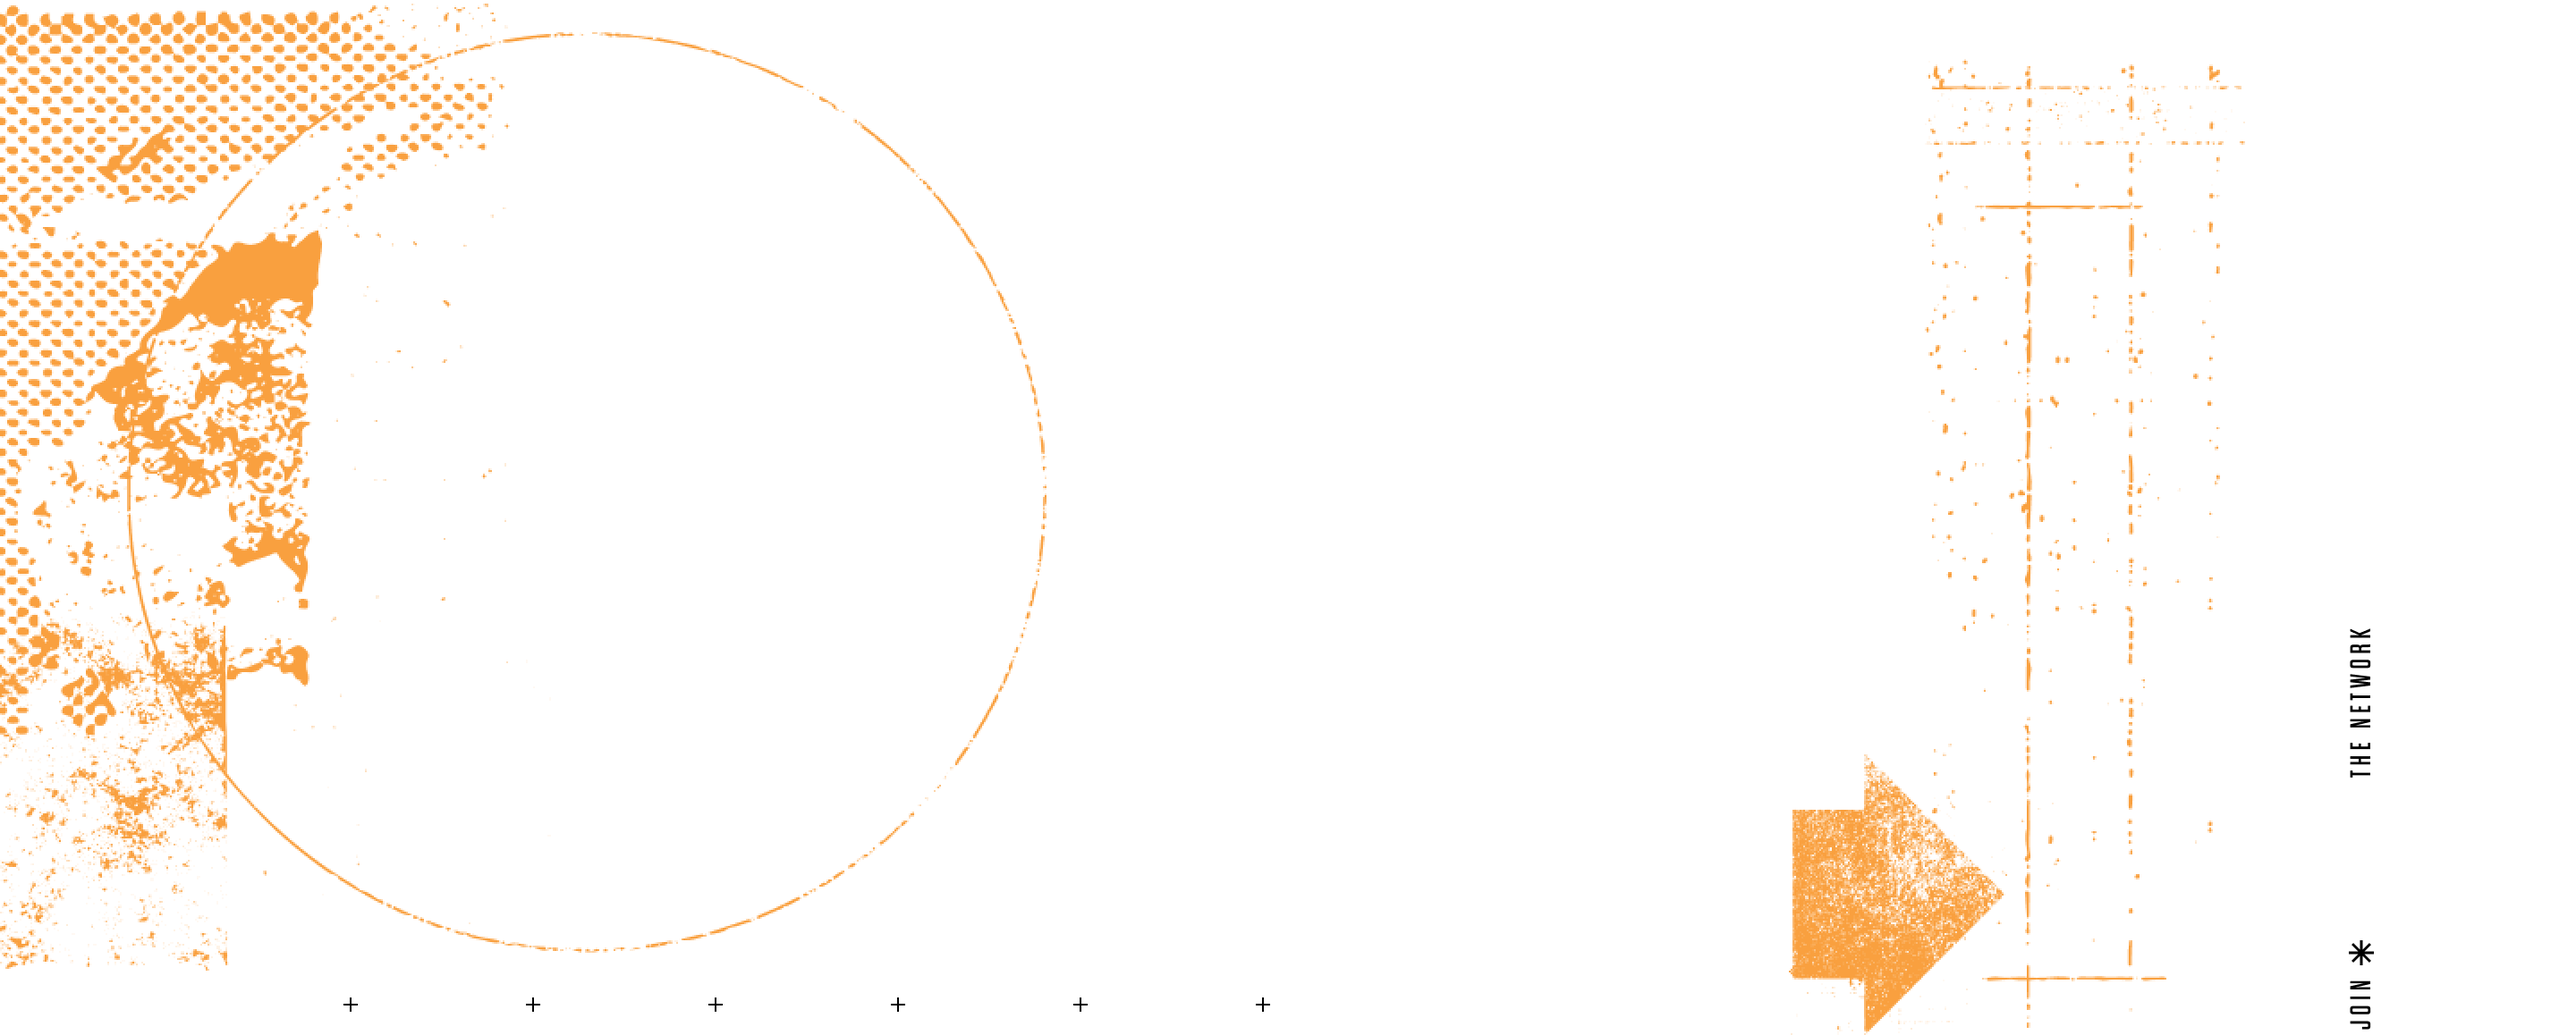
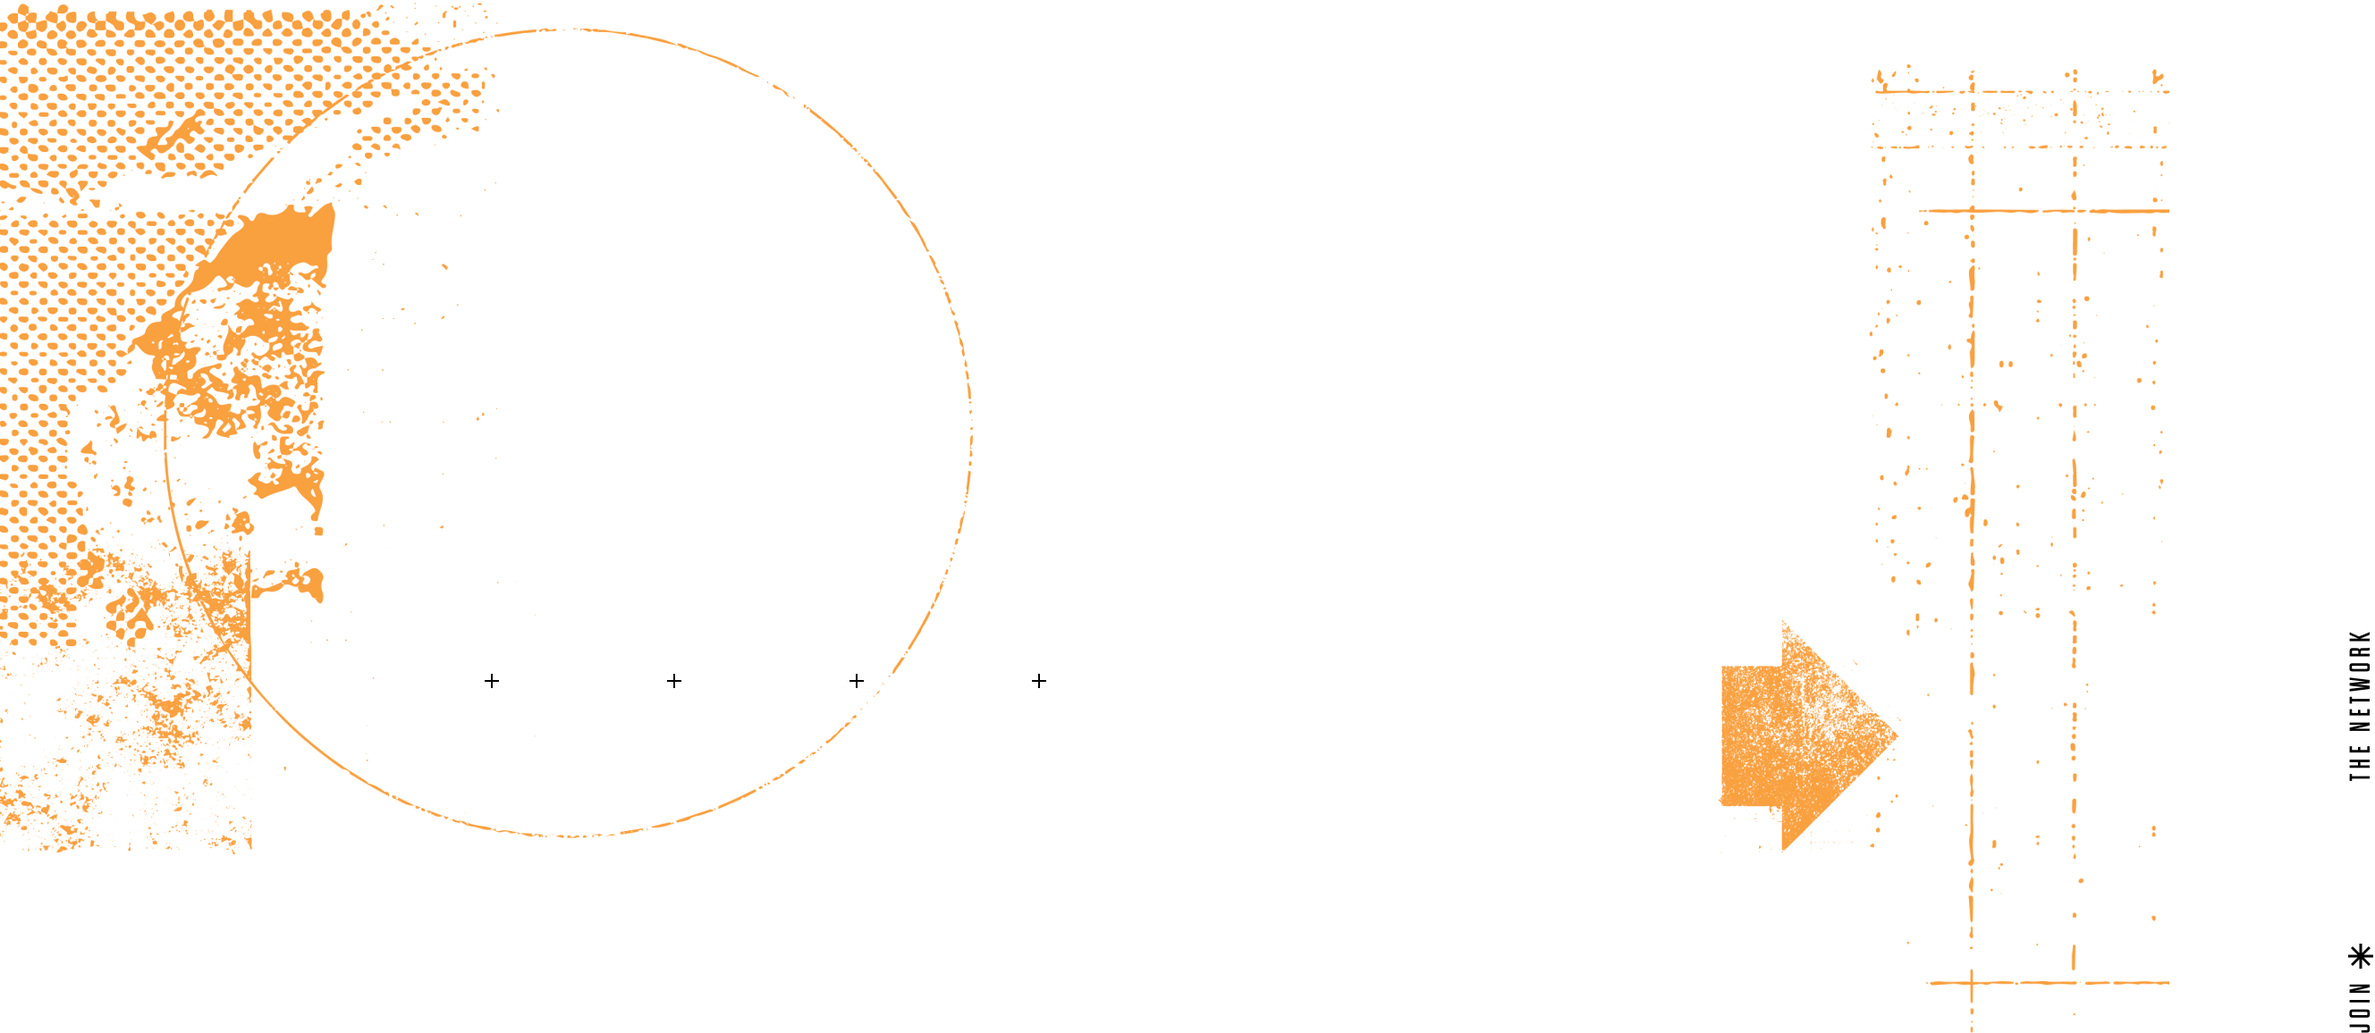
Ainf 1 hero text adjustment

diff --git a/apps/front/components/common/mobile/Header.tsx b/apps/front/components/common/mobile/Header.tsx
@@ -3,7 +3,7 @@ import { useState, useEffect } from 'react';
 import { motion } from "motion/react"
 import Link from "next/link";
 import IMGHeaderIconArrowUpRight from '@/public/pngs/header/headerArrowUpRight.png';
-import SVGIconHamburger from '@/public/svgs/common/Hamburger';
+import IMGIconHamburger from '@/public/pngs/header/hamburger.png';
 import IMGAIFoundryLogoTop from '@/public/pngs/header/AIFoundryLogoTopMobile.png';
 import IMGAIFoundryLogoTopSticky from '@/public/pngs/header/AIFoundryLogoTopStickyMobile.png';
 import IMGBackground from '@/public/pngs/home/navbar/backgroundMobile.png';
@@ -34,7 +34,7 @@ export default function Header() {
     },[])
     
     return (
-        <header className='xs:hidden flex flex-col w-full'>
+        <header className='md:hidden flex flex-col w-full'>
             <div className='flex flex-col w-full h-full bg-black'>
                 <div className='flex flex-row text-sand justify-center p-4'>
                     <a href="#">
@@ -85,7 +85,7 @@ export default function Header() {
                             />
                         </div>
                         <div className='flex basis-[50%] w-full justify-end'>
-                            <SVGIconHamburger className='z-[3]' onClick={() => setShowMenu(true)} />
+                            <img src={IMGIconHamburger.src} className='z-[3] w-[6.4vw]' onClick={() => setShowMenu(true)} />
                         </div>
                     </motion.nav>
                 </div>
@@ -102,13 +102,13 @@ export default function Header() {
                             <img onClick={() => {
                                 setShowMenu(false);
                                 window.scrollTo(0, 0);
-                            }} className='w-[40.27vw]' src={IMGAIFoundyLogoSideMenuMobile.src} />
+                            }} className='w-[40.27vw] xs:w-[30vw]' src={IMGAIFoundyLogoSideMenuMobile.src} />
                         </div>
                         <div className='flex justify-end'>
                             <img onClick={() => setShowMenu(false)} className='w-[6.4vw]' src={IMGCloseButton.src} />
                         </div>
                     </div>
-                    <div className="flex flex-col w-full my-[10.667vw] font-dharma-gothic-e font-black text-[10.667vw] leading-[8.8vw] gap-[8.8vw]">
+                    <div className="flex flex-col w-full my-[10.667vw] xs:my-[4vw] font-dharma-gothic-e font-black text-[10.667vw] xs:text-[6.5vw] leading-[8.8vw] gap-[8.8vw] xs:gap-0">
                         <Link className="uppercase" onClick={() => setShowMenu(false)} href="#projects-mobile">
                             Projects
                         </Link>
@@ -122,7 +122,7 @@ export default function Header() {
                             Our values
                         </Link>
                     </div>
-                    <div className="flex flex-col w-full mb-[10.667vw] font-dharma-gothic-e font-bold text-[4.8vw] leading-[4.8vw] gap-[4.8vw]">
+                    <div className="flex flex-col w-full mb-[10.667vw] xs:mb-[5vw] font-dharma-gothic-e font-bold text-[4.8vw] xs:text-[4vw] leading-[4.8vw] gap-[4.8vw] xs:gap-[2vw]">
                         <Link className="uppercase" href="#">
                             Privacy policy
                         </Link>
@@ -136,12 +136,12 @@ export default function Header() {
                     <div className='flex w-full justify-start'>
                         <Button variant='primary' content='Join our discord' svg='discord' />
                     </div>
-                    <div className='flex flex-row gap-[8.55vw] mt-[12.27vw]'>
-                        <img className='w-[6.4vw] h-[6.4vw]' src={IMGInstagramIcon.src} />
-                        <img className='w-[6.4vw] h-[6.4vw]' src={IMGLinkedinIcon.src} />
-                        <img className='w-[6.4vw] h-[6.4vw]' src={IMGYoutubeIcon.src} />
+                    <div className='flex flex-row gap-[8.55vw] xs:gap-[2vw] mt-[12.27vw] xs:mt-[5vw]'>
+                        <img className='w-[6.4vw] h-[6.4vw] xs:w-[5vw] xs:h-[5vw]' src={IMGInstagramIcon.src} />
+                        <img className='w-[6.4vw] h-[6.4vw] xs:w-[5vw] xs:h-[5vw]' src={IMGLinkedinIcon.src} />
+                        <img className='w-[6.4vw] h-[6.4vw] xs:w-[5vw] xs:h-[5vw]' src={IMGYoutubeIcon.src} />
                     </div>
-                    <div className='font-host-grotesk font-normal text-[3.2vw] leading-[4.8vw] mt-[4.8vw]'>
+                    <div className='font-host-grotesk font-normal text-[3.2vw] xs:text-[2vw] leading-[4.8vw] mt-[4.8vw]'>
                         © 2024 AI Foundry. All rights reserved.
                     </div>
                 </div>

diff --git a/apps/front/components/home/desktop/Hero.tsx b/apps/front/components/home/desktop/Hero.tsx
@@ -1,26 +1,18 @@
 import IMGBackground from '@/public/pngs/home/hero/background.png'
 import SVGPaperError from '@/public/svgs/hero/PaperError'
-import IMGPaperGraffiti from '@/public/pngs/home/hero/paperGraffiti.png'
 
 export default function Hero() {
     return (
-        <div className='hidden xs:flex xs:flex-col xs:gap-y-[6vw] xs:w-full xs:h-full'>
-            <div className='hero relative w-full h-full'>
-                <img src={IMGBackground.src} width="100%" height="100%" />
-                <p className='absolute uppercase text-[15vw] lg:text-[16.15vw] leading-[0.75] text-center font-black -bottom-[1.1vw] left-1/2 -translate-x-1/2'>
-                    An open AI<br/>community<br/>for all
-                </p>
-                <div className='absolute left-[calc(50%+12.5vw)] top-[calc(50%+2.5vw)] w-[21.9vw]'>
-                    <SVGPaperError />
-                </div>
-                <div className='absolute w-[10vw] right-[calc(25%-6.5vw)] top-[calc(25%+2.7vw)] lg:right-[calc(25%-9vw)] lg:top-[calc(25%+0.4vw)] lg:w-[11vw] mix-blend-multiply'>
-                    <img src={IMGPaperGraffiti.src} width="100%" height="100%" />
-                </div>
+        <div className='hidden xs:flex xs:flex-col xs:w-full xs:h-full relative mb-[8vw] md:mb-[5vw] lg:mb-0 xl:mb-0'>
+            <img className='w-[92vw]' src={IMGBackground.src} />
+            <p className='absolute uppercase text-[13.475vw] leading-[9.935vw] text-center font-black top-[4vw] left-1/2 -translate-x-1/2'>
+                An open AI<br/>community<br/>for all
+            </p>
+            <div className='absolute left-[61vw] top-[18vw] w-[17.365vw]'>
+                <SVGPaperError />
             </div>
-            <div className='w-full h-full'>
-                <p className='xl:w-[62rem] lg:w-1/2 md:w-1/2 xs:w-3/4 mx-auto font-normal font-host-grotesk text-center xs:text-[1.5rem] md:text-[1.8rem] lg:text-[2rem] xl:text-[2rem] px-[2rem] lg:px-0'>
-                    We are a community of practitioners building an open-source, composable AI ecosystem. Our goal is to reduce the complexity of the AI industry. Join our thriving community and share, collaborate and innovate with us.
-                </p>
+            <div className='relative w-full h-full xl:w-[62rem] lg:w-[50rem] md:w-1/2 xs:w-3/4 font-normal font-host-grotesk text-center xs:text-[1.5rem] md:text-[1.8rem] lg:text-[2rem] xl:text-[2rem] left-1/2 -translate-x-1/2 -bottom-[6vw] md:-bottom-[1vw] xl:bottom-[4vw] lg:bottom-[4vw]'>
+                We are a community of practitioners building an open-source, composable AI ecosystem. Our goal is to reduce the complexity of the AI industry. Join our thriving community and share, collaborate and innovate with us.
             </div>
         </div>
     )

diff --git a/apps/front/components/common/desktop/Header.tsx b/apps/front/components/common/desktop/Header.tsx
@@ -24,7 +24,7 @@ export default function Header() {
     },[])
     
     return (
-      <header className='hidden xs:block'>
+      <header className='hidden md:block'>
           <div className='flex flex-col w-full bg-black'>
               <div className='flex flex-row text-sand justify-center p-4'>
                   <a className='flex' href="#">
@@ -54,7 +54,7 @@ export default function Header() {
                       <div className={`flex flex-row items-center`}>
                           <div className="flex w-full justify-start">
                               <motion.div
-                                  className='flex text-nowrap flex-wrap flex-row font-medium text-[1.4vw] leading-[1.4vw]'
+                                  className='flex text-nowrap flex-wrap flex-row font-medium text-[1.8rem] lg:text-[2rem] xl:text-[2rem]'
                                   initial={{ columnGap: '2.78vw'}}
                                   animate={{ columnGap: isSticky ? '1.67vw' : '2.78vw' }}
                                   transition={{ ease: "easeInOut", duration: 0.5 }}
